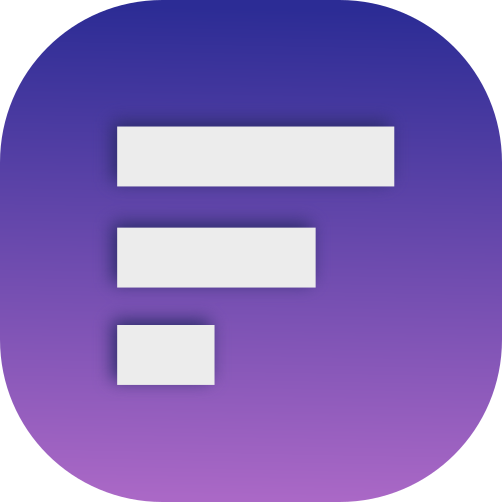
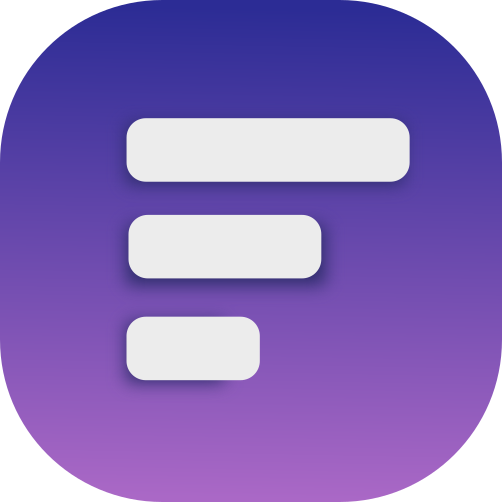
Update brand img, base and index html files.

Changed region(s): [[0.2092, 0.2092, 0.8367, 0.3884], [0.2092, 0.4183, 0.6574, 0.5976], [0.2092, 0.6275, 0.5378, 0.7769]]

diff --git a/theme/templates/index.html b/theme/templates/index.html
@@ -17,16 +17,16 @@
             </p>
         </div>
         <div class="col-span-2 md:col-span-1 flex justify-center">
-            <p class="
+            <a href="#about" class="
                     text-gray-200 text-xl subpixel-antialiased font-light
                 ">
                 About 
-            </p>
-            <p class="
+        </a>
+            <a href="#contact" class="
                     text-gray-200 text-xl subpixel-antialiased font-light ml-5
                 ">
                 Contact
-            </p>
+            </a>
         </div>
     </div>
 
@@ -34,7 +34,7 @@
     <div class="grid grid-cols-4 gap-9 mt-9">
         <div class="col-span-4 md:col-span-2 flex md:ml-48 justify-center">
             <img class="object-scale-down w-40 md:w-60"
-            src="{%static 'img/brand.png'%}" alt="">
+            src="{%static 'img/brand.png'%}" alt="brand-image">
         </div>
         
         <div class="col-span-4 md:col-span-1 ">
@@ -50,11 +50,12 @@
                 <span class="text-gray-900 uppercase">sign up</span>
                 </div>
                 <div>
-                    <p class="text-xs md:mt-5 text-gray-200">
+                    <p class="text-xs md:mt-5 font-thin text-gray-200">
                         <svg class="w-5 inline-block" xmlns="http://www.w3.org/2000/svg" fill="none" viewBox="0 0 24 24" stroke="currentColor">
                             <path stroke-linecap="round" stroke-linejoin="round" stroke-width="2" d="M17 8l4 4m0 0l-4 4m4-4H3" />
                         </svg>
-                        Very Simple Polling App - Built with #Django</p>
+                        Very Simple Polling App - Built with #Django
+                    </p>
                 </div>
             </div>
         </div>
@@ -64,26 +65,67 @@
 <!-- Sing in Form -->
 <div id="show" class=" hidden absolute top-20 md:top-1/3 md:left-1/3 w-3/5 h-1/6">
     <div class="bg-indigo-100 py-20 md:p-4 rounded-lg w-screen md:w-6/12">
-    <form class="w-4/5 mx-auto my-auto">
-        <div class="mb-4">
-          <label class="block text-md font-light mb-2" for="username">Username</label>
-          <input class="w-full bg-drabya-gray rounded-lg border-gray-500 appearance-none border p-4 font-light leading-tight focus:outline-none focus:shadow-outline" type="text" name="username" id="" placeholder="Username">
+        <form class="w-4/5 mx-auto my-auto">
+            <div class="mb-4">
+            <label class="block text-md font-light mb-2" for="username">Username</label>
+            <input class="w-full bg-drabya-gray rounded-lg border-gray-500 appearance-none border p-4 font-light leading-tight focus:outline-none focus:shadow-outline" type="text" name="username" id="" placeholder="Username">
+            </div>
+            <div class="mb-4">
+            <label class="block text-md font-light mb-2" for="password">Password</label>
+            <input class="w-full bg-drabya-gray rounded-lg border-gray-500 appearance-none border p-4 font-light leading-tight focus:outline-none focus:shadow-outline" type="password" name="password" id="" placeholder="Password">
+            </div>
+        
+            <div class="flex items-center justify-between mb-5">
+            <button class="bg-indigo-600 hover:bg-purple-700 text-white font-light py-2 px-6 rounded-lg focus:outline-none focus:shadow-outline" type="button">
+                SIGN IN
+            </button>
+            <a class="inline-block align-baseline font-light text-sm text-indigo-600 hover:text-indigo-500" href="#">
+                Forgot Password?
+            </a>
+            </div>
+            <p class="text-center text-md font-light">Don't have an account? <a class="font-light text-md text-indigo-600">Create</a></p>
+        </form>
         </div>
-        <div class="mb-4">
-          <label class="block text-md font-light mb-2" for="password">Password</label>
-          <input class="w-full bg-drabya-gray rounded-lg border-gray-500 appearance-none border p-4 font-light leading-tight focus:outline-none focus:shadow-outline" type="password" name="password" id="" placeholder="Password">
+    </div>
+
+    <!-- About component -->
+    <div class="grid grid-cols-3 mt-10 mb-3">
+        <div class="col-span-1 pt-3 md:pt-5"><hr></div>
+        <div class="col-span-1 flex justify-center text-xl md:text-4xl font-thin text-gray-800" id="about">ABOUT</div>
+        <div class="col-span-1 pt-3 md:pt-5"><hr></div>
+    </div>
+    <div class="grid grid-cols-1">
+        <div class="col-span-1 flex justify-center px-10 md:px-60">
+            <p class="text-gray-700 text-center">Lorem Ipsum is simply dummy text of the printing and typesetting industry. Lorem Ipsum has been the industry's 
+                standard dummy text ever since the 1500s, when an unknown printer took a galley of type and scrambled it to make
+                 a type specimen book. It has survived not only five centuries, but also the leap into electronic typesetting, 
+                 remaining essentially unchanged. It was popularised in the 1960s with the release of Letraset sheets containing 
+                 Lorem Ipsum passages, and more recently with desktop publishing software like Aldus PageMaker including versions 
+                 of Lorem Ipsum.</p>
         </div>
-      
-        <div class="flex items-center justify-between mb-5">
-          <button class="bg-indigo-600 hover:bg-purple-700 text-white font-light py-2 px-6 rounded-lg focus:outline-none focus:shadow-outline" type="button">
-            SIGN IN
-          </button>
-          <a class="inline-block align-baseline font-light text-sm text-indigo-600 hover:text-indigo-500" href="#">
-            Forgot Password?
-          </a>
+    </div>
+
+    <!-- Contact component -->
+    <div class="grid grid-cols-3 mt-10 mb-3">
+        <div class="md:col-span-1 pt-3 md:pt-5"><hr></div>
+        <div class="col-span-1 flex justify-center text-xl md:text-4xl font-thin text-gray-800" id="contact">CONTACT</div>
+        <div class="col-span-1 pt-3 md:pt-5"><hr></div>
+    </div>
+    <div class="grid grid-cols-1">
+        <div class="col-span-1 flex justify-center px-10 md:px-60">
+            <p class="text-gray-700 text-center">Lorem Ipsum is simply dummy text of the printing and typesetting industry. Lorem Ipsum has been the industry's 
+                standard dummy text ever since the 1500s, when an unknown printer took a galley of type and scrambled it to make
+                 a type specimen book. It has survived not only five centuries, but also the leap into electronic typesetting, 
+                 remaining essentially unchanged. It was popularised in the 1960s with the release of Letraset sheets containing 
+                 Lorem Ipsum passages, and more recently with desktop publishing software like Aldus PageMaker including versions 
+                 of Lorem Ipsum.</p>
         </div>
-        <p class="text-center text-md font-light">Don't have an account? <a class="font-light text-md text-indigo-600">Create</a></p>
-      </form>
-      </div>
+    </div>
+
+    <!-- footer component -->
+    <footer class="bg-gradient-to-t from-indigo-500 to-blue-400 p-5 mt-10">
+        <p class="text-gray-200 text-sm md:text-base font-thin flex justify-center">Created By Osama Arabi - &copy;2021</p>
+    </footer>
+    
 </div>
 {% endblock content %}

diff --git a/theme/templates/base.html b/theme/templates/base.html
@@ -11,7 +11,6 @@
 		<meta name="author" content="">
 
 		<link rel="stylesheet" href="{% static 'css/styles.css' %}">
-		<script src="{$ static 'js/jquery.js' %}"></script>
 	</head>
 
 	<body>
